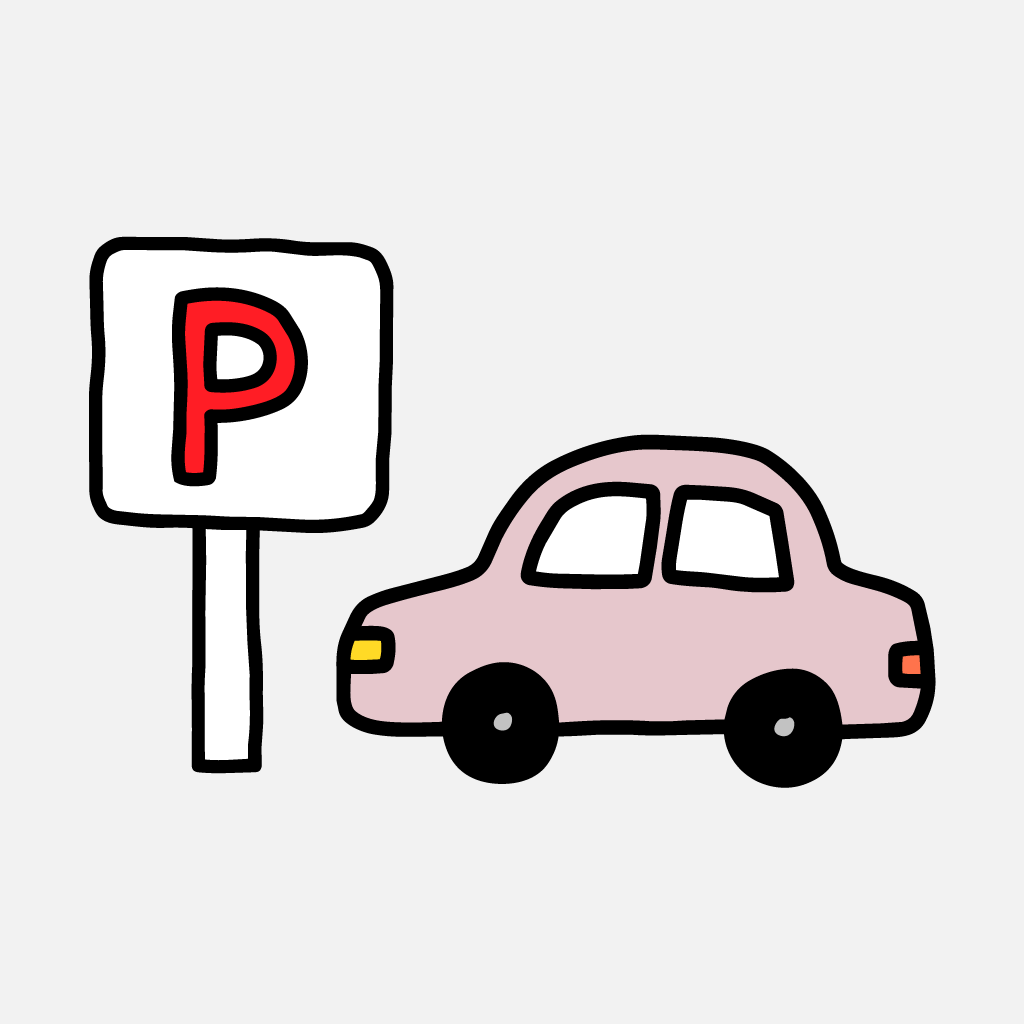
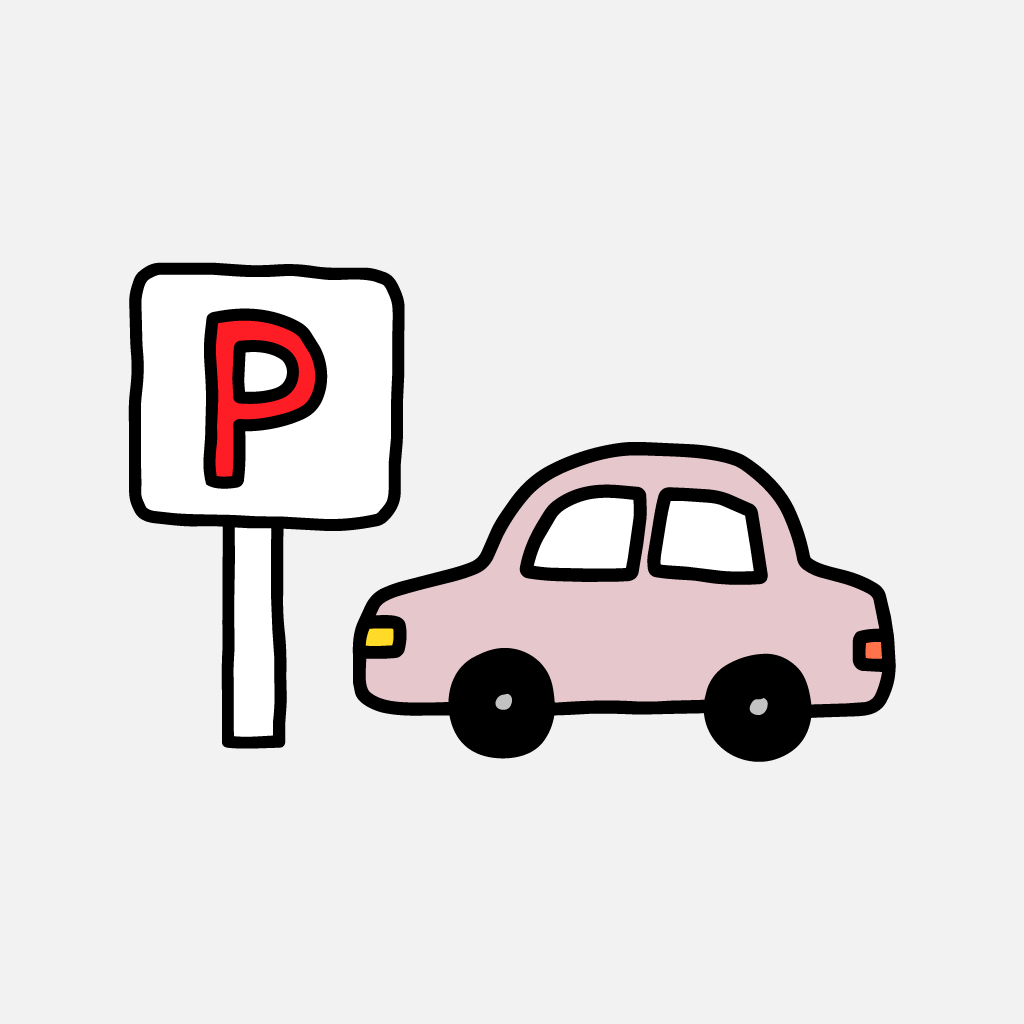
Add files via upload

Changed region(s): [[0.3125, 0.4062, 0.9375, 0.7812], [0.0625, 0.2188, 0.4062, 0.7812]]

diff --git a/index.html b/index.html
@@ -5,6 +5,13 @@
   <meta name="viewport" content="width=device-width, initial-scale=1.0, viewport-fit=cover" />
   <title>내 차 어디?</title>
   <meta name="theme-color" content="#f7f2e9" />
+  <link rel="manifest" href="manifest.json" />
+  <link rel="apple-touch-icon" href="assets/app-icon-180.png" />
+  <link rel="icon" type="image/png" href="assets/app-icon-192.png" />
+  <meta name="apple-mobile-web-app-capable" content="yes" />
+  <meta name="apple-mobile-web-app-title" content="내 차 어디" />
+  <meta name="apple-mobile-web-app-status-bar-style" content="default" />
+  <meta name="mobile-web-app-capable" content="yes" />
   <style>
     * { box-sizing: border-box; }
     body { margin:0; background:#f7f2e9; font-family: system-ui, -apple-system, BlinkMacSystemFont, sans-serif; color:#111; }

diff --git a/README.md b/README.md
@@ -1,16 +1,22 @@
-# Where I Park MVP
+# 내 차 어디 MVP
 
 정적 HTML 기반 주차 위치 기록 웹앱입니다.
 
-## 반영 내용
-- design3.svg 에셋 반영
-- 하단 새로주차/저장됨 버튼 크기 축소
-- 하단 새로주차 클릭 시 현재 주차 기록 리셋
-- 저장 카드 삭제 버튼 위치/크기 조정
-- 저장된 주차 위치 화면의 새로주차하기 버튼 제거
-- 로고 제외 주요 SVG 이미지 크기 80% 조정
-- 층 SVG 디자인 적용
-- 지상/지하/층 라벨 높이 통일
+## 이번 버전 포함 내용
 
+- 홈화면 앱 이름: `내 차 어디`
+- 아이폰 홈화면 아이콘 적용
+- `manifest.json` 추가
+- `apple-touch-icon` 설정
+- 기존 기능 유지: 사진 촬영, 메모, 지상/지하/층 입력, 타이머, 저장됨
 
-Update3: 상단 여백/헤더 영역 축소, 지상/지하/층 높이 통일 및 중앙정렬, 메인 저장 버튼 150% 확대 반영.
+## GitHub 업로드 방법
+
+1. 이 ZIP 압축을 풉니다.
+2. GitHub 저장소에 있는 기존 파일 위에 전체 업로드합니다.
+3. 같은 이름 파일은 Replace/덮어쓰기 합니다.
+4. Commit changes를 누릅니다.
+5. Vercel 배포가 끝난 뒤 아이폰 Safari에서 접속합니다.
+6. 공유 버튼 → 홈 화면에 추가를 누릅니다.
+
+기존에 홈화면에 추가해둔 아이콘이 있다면 삭제 후 다시 추가해야 새 아이콘/이름이 반영됩니다.